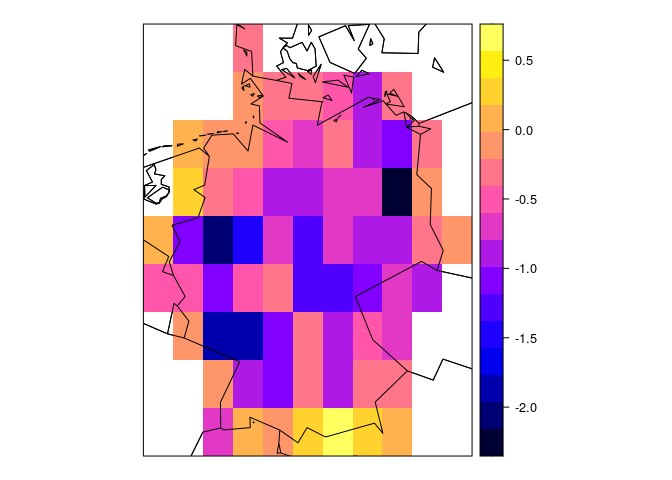
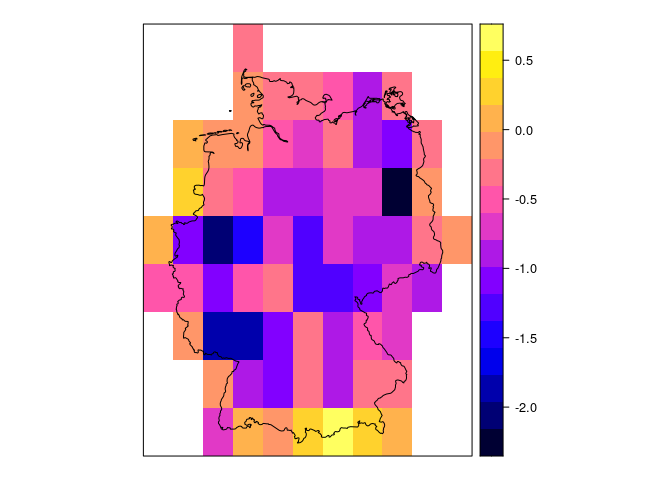
started docu of creation part

diff --git a/README.md b/README.md
@@ -88,6 +88,7 @@ library(ebvnetcdf)
 file <- system.file(file.path("extdata","cSAR_idiv_v1.nc"), package="ebvnetcdf")
 prop.file <- ebv_properties(file)
 
+#take a look at the general properties of the dataset - there are more properties to discover!
 prop.file@general
 #> $title
 #> [1] "Changes in local bird diversity (cSAR)"
@@ -118,6 +119,8 @@ prop.file@general
 #> 
 #> $value_range
 #> [1] NA
+slotNames(prop.file)
+#> [1] "general"  "spatial"  "temporal" "metric"   "scenario" "entity"
 ```
 
 Now let’s get the paths to all possible datacubes. The resulting
@@ -164,7 +167,7 @@ Plot a map of the datacube that we just looked at - it has 12 timesteps,
 mabe look at the sixth one?
 
 ``` r
-options('temp_directory'=system.file("extdata/", package="ebvnetcdf"))
+#plot the global map
 dc <- datacubes[1,1]
 ebv_plot_map(file, dc, timestep = 6)
 ```
@@ -189,6 +192,7 @@ datacube (non forest birds) over time? Let’s take a look at the average.
 The function returns the values, catch them\!
 
 ``` r
+#get the averages and plot
 averages <- ebv_plot_indicator(file, dc)
 #> [1] "calculating timesteps..."
 #> ================================================================================
@@ -208,17 +212,24 @@ the value range and other basic measurements.
 ``` r
 #info for whole dataset
 measurements <- ebv_data_analyse(file, dc)
+#see the included measurements
+names(measurements)
+#> [1] "min"  "q25"  "q50"  "mean" "q75"  "max"  "std"  "n"    "NAs"
+#how many pixels are included?
 measurements$n
 #> [1] 64800
 
-#info for a subset (bounding box)
+#info for a subset defined by a bounding box (roughly(!) Germany)
 bb <- c(5,15,47,55)
 measurements.bb <- ebv_data_analyse(file, dc, bb)
+#how many pixels are now included?
 measurements.bb$n
 #> [1] 80
 ```
 
-To access the data use the following
+To access the data ampoong other things you can use the following.
+Subsetting the data using a shapefile needs a directory for temporarly
+created files.
 
 ``` r
 #load whole data set for two timesteps
@@ -226,12 +237,21 @@ data <- ebv_data_read(file, dc, c(1,2), delayed = F)
 dim(data)
 #> [1] 180 360   2
 
-#load subset (shapefile)
+#load subset from shapefile (Germany)
 shp <- system.file(file.path('extdata','ne_10m_admin_0_countries_subset_germany.shp'), package="ebvnetcdf")
+#define directory for temporary files
+options('temp_directory'=system.file("extdata/", package="ebvnetcdf"))
 data.shp <- ebv_data_read_shp(file, dc, shp, NULL, c(1,2,3))
 dim(data.shp)
 #> [1]  9 11  3
-raster::spplot(data.shp[[1]], sp.layout = list(wrld_simpl, first=FALSE))
+#very quick plot of the resulting raster plus the shapefile
+shp.data <- rgdal::readOGR(shp)
+#> OGR data source with driver: ESRI Shapefile 
+#> Source: "/tmp/RtmpQ1Ij9I/temp_libpath131727521a39/ebvnetcdf/extdata/ne_10m_admin_0_countries_subset_germany.shp", layer: "ne_10m_admin_0_countries_subset_germany"
+#> with 1 features
+#> It has 94 fields
+#> Integer64 fields read as strings:  POP_EST NE_ID
+raster::spplot(data.shp[[1]], sp.layout = list(shp.data, first=FALSE))
 ```
 
 <img src="man/figures/README-unnamed-chunk-7-1.png" width="100%" />
@@ -240,23 +260,71 @@ raster::spplot(data.shp[[1]], sp.layout = list(wrld_simpl, first=FALSE))
 
 This process is still work in progress. Right now you’ll have to insert
 all the metadata in the Geobon Portal and then use the resulting json
-file to create an empty NetCDF file with the correct structure and the
-metadata. Additionally to that json file the function needs the amount
-of entities the NetCDF will encompass.
+file to create an empty NetCDF file which complies to the EBV NetCDF
+standard. It has the correct structure and holds the metadata.
+Additionally to that json file the function needs the amount of entities
+the NetCDF will encompass.
+
+The example is based on the [Global habitat availability for
+mammals](https://portal.geobon.org/ebv-detail?id=5). As its ID in the
+geoportal is 5 the json file is just called 5.
 
 ``` r
-#json <- 'path/to/json/file.json'
-#out <- 'path/to/new/netcdf/file.nc'
-#ebv_ncdf_create(json, out, 5)
+json <- system.file(file.path('extdata','5.json'), package="ebvnetcdf")
+newNc <- file.path(system.file(package="ebvnetcdf"),'extdata','mammals.nc')
+#lets say it has 5 entities, which is not true in reality!
+ebv_ncdf_create(json, newNc, 5, overwrite=T)
+#check out the general propeties of our newly created file
+print(ebv_properties(newNc)@general)
+#> $title
+#> [1] "Global habitat availability for mammals from 2015-2055"
+#> 
+#> $description
+#> [1] "Global habitat availability for 5,090 mammals in 5 year intervals (subset from 2015 to 2055)."
+#> 
+#> $ebv_class
+#> [1] "Species populations"
+#> 
+#> $ebv_name
+#> [1] "Species distributions"
+#> 
+#> $ebv_subgroups
+#> [1] "scenario" "metric"   "entity"  
+#> 
+#> $creator
+#> [1] "Daniele Baisero"
+#> 
+#> $institution
+#> [1] ""
+#> 
+#> $contactname
+#> [1] ""
+#> 
+#> $contactemail
+#> [1] ""
+#> 
+#> $value_range
+#> [1] NA
+#it has no datacubepaths yet - makes sense. we haven't added any data yet...
+print(ebv_datacubepaths(newNc))
+#> data frame with 0 columns and 0 rows
 ```
 
-Afterwards you can add your data to the NetCDF from GeoTiff files. You
-need to indicate which scenario and/or metric and/or entity the data
-belongs to. You can add your data timestep per timestep or all at once.
+Tip: You can always take a look at your NetCDF in
+[Panoply](https://www.giss.nasa.gov/tools/panoply/) provided by NASA.
+That’s very helpful to understand the structure.
+
+In the next step you can add your data to the NetCDF from GeoTiff files.
+You need to indicate which scenario and/or metric and/or entity the data
+belongs to. You can add your data timestep per timestep, in slices or
+all at once.
 
 ``` r
 #tif <- 'path/to/data.tif' 
 #ebv_ncdf_add_data(out, tif, metric=1, scenario=NULL, entity=1, timestep=c(1:6), band=c(1:6))
+#ebv_properties()@entity
+#ebv_datacubepaths()
+#dim data?
 ```
 
 Now there are still a few information missing about the data you just
